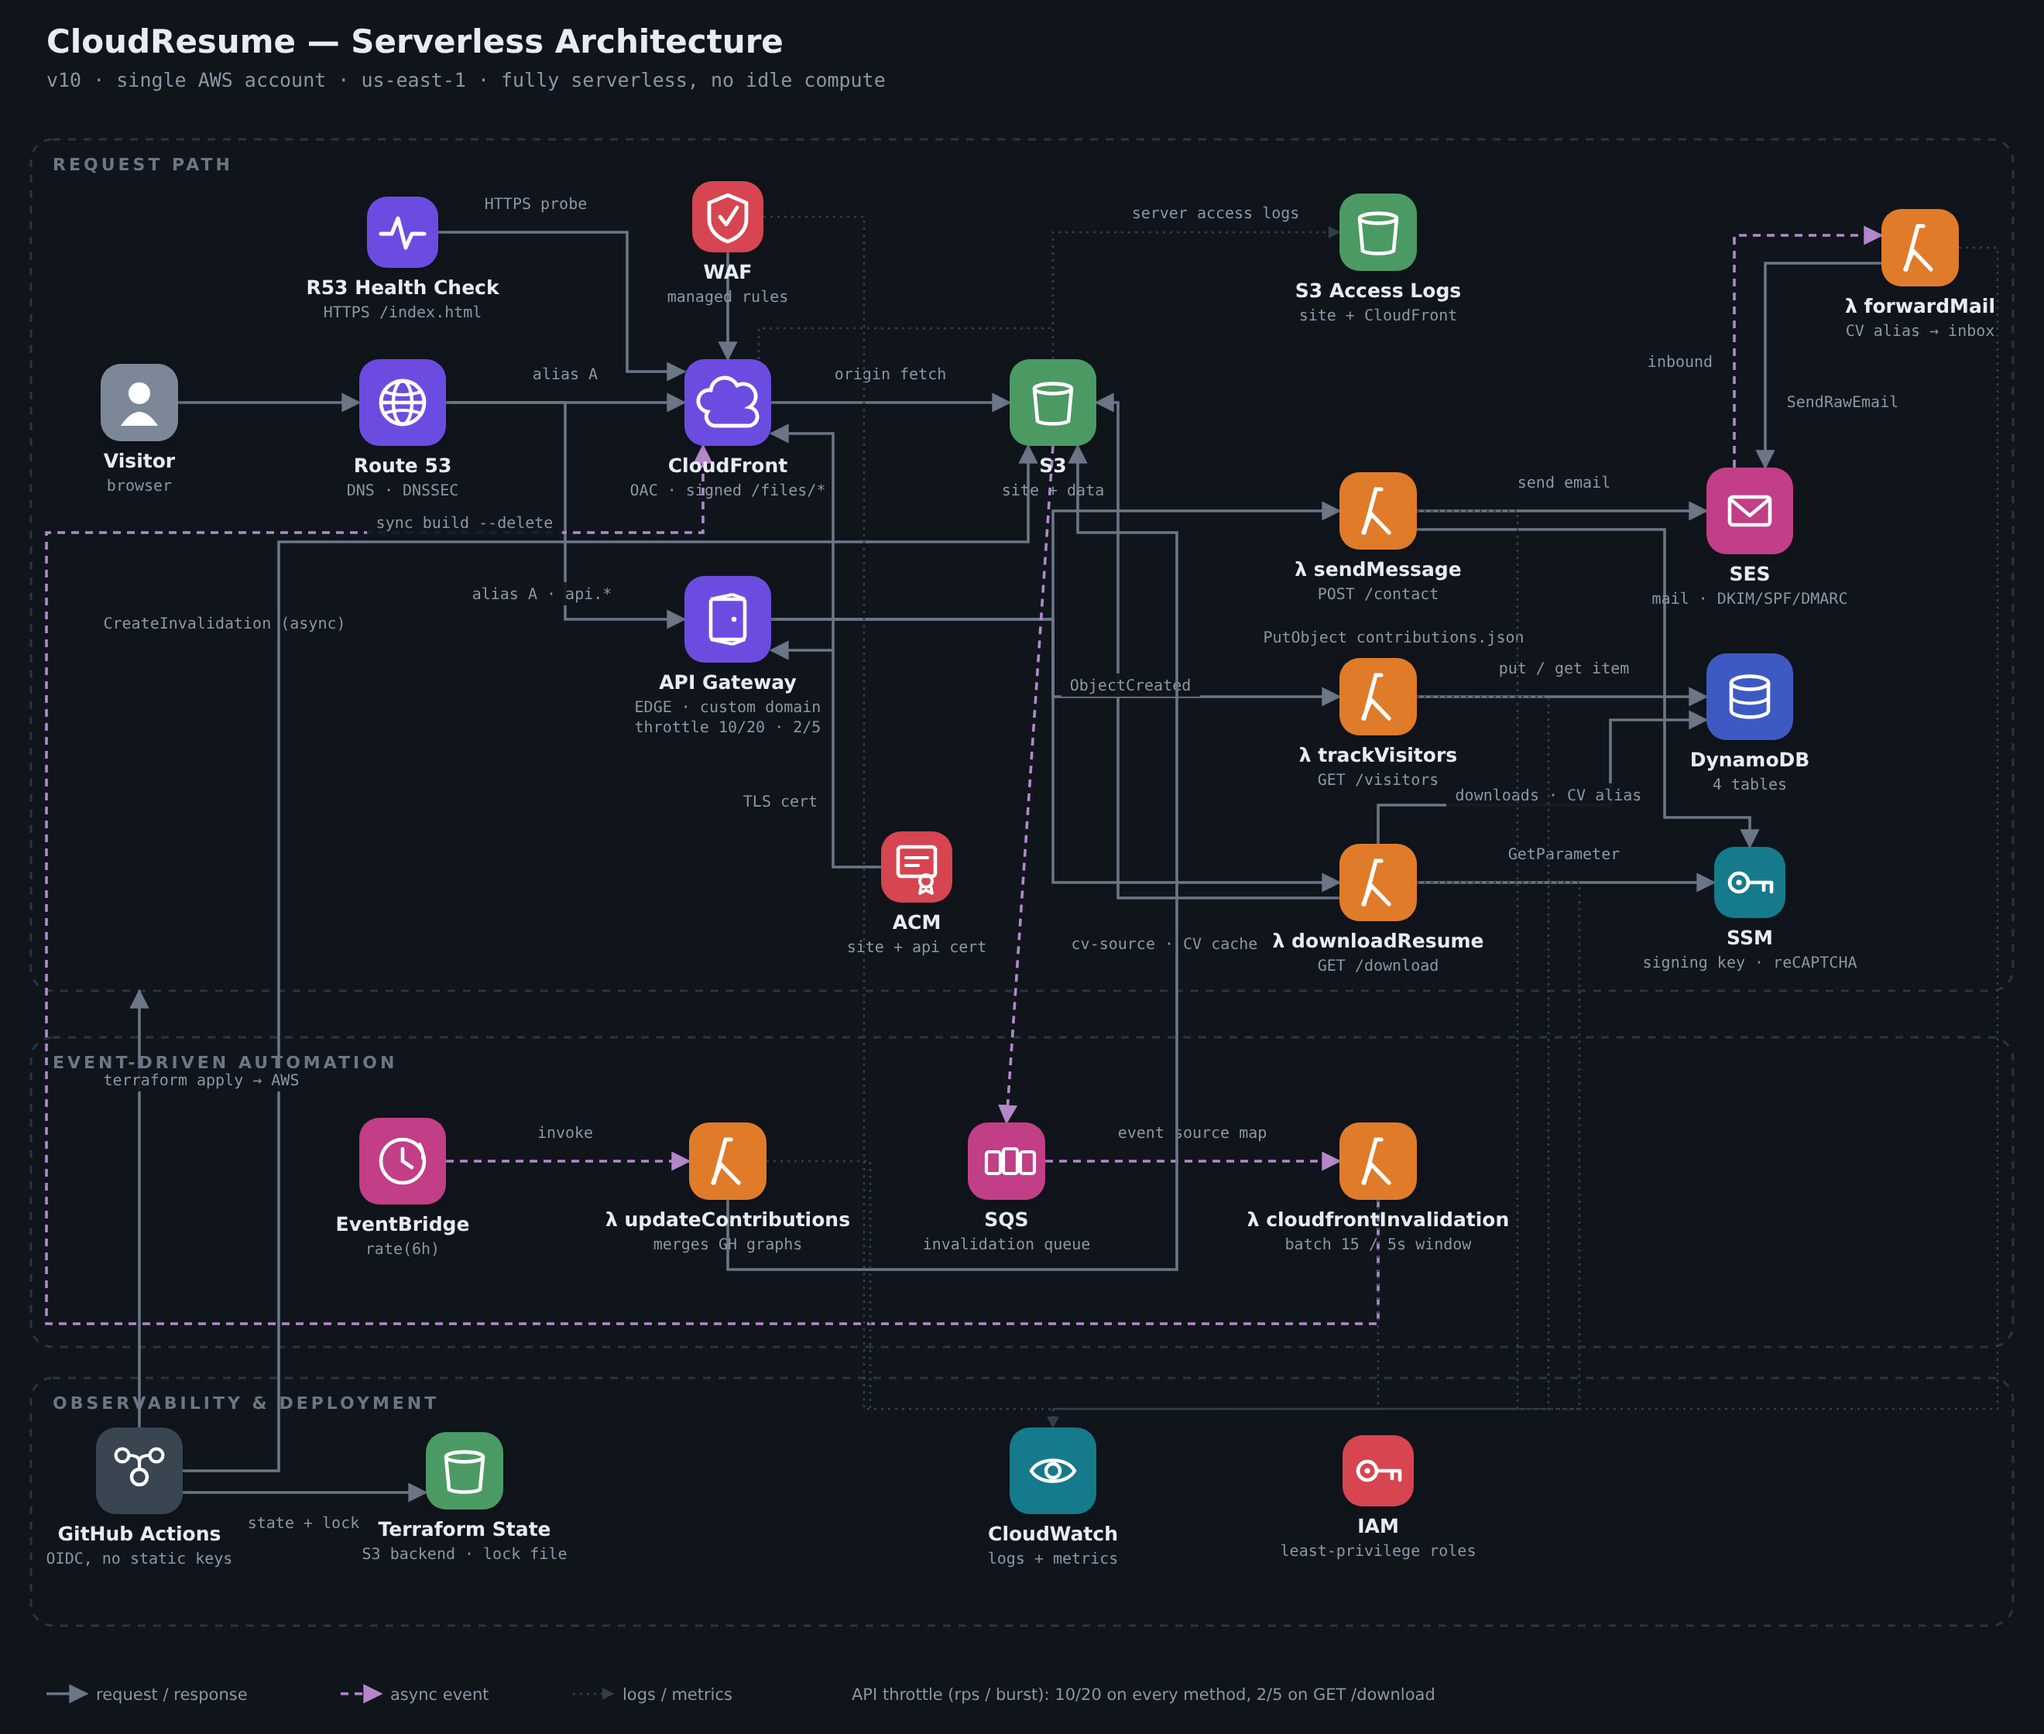
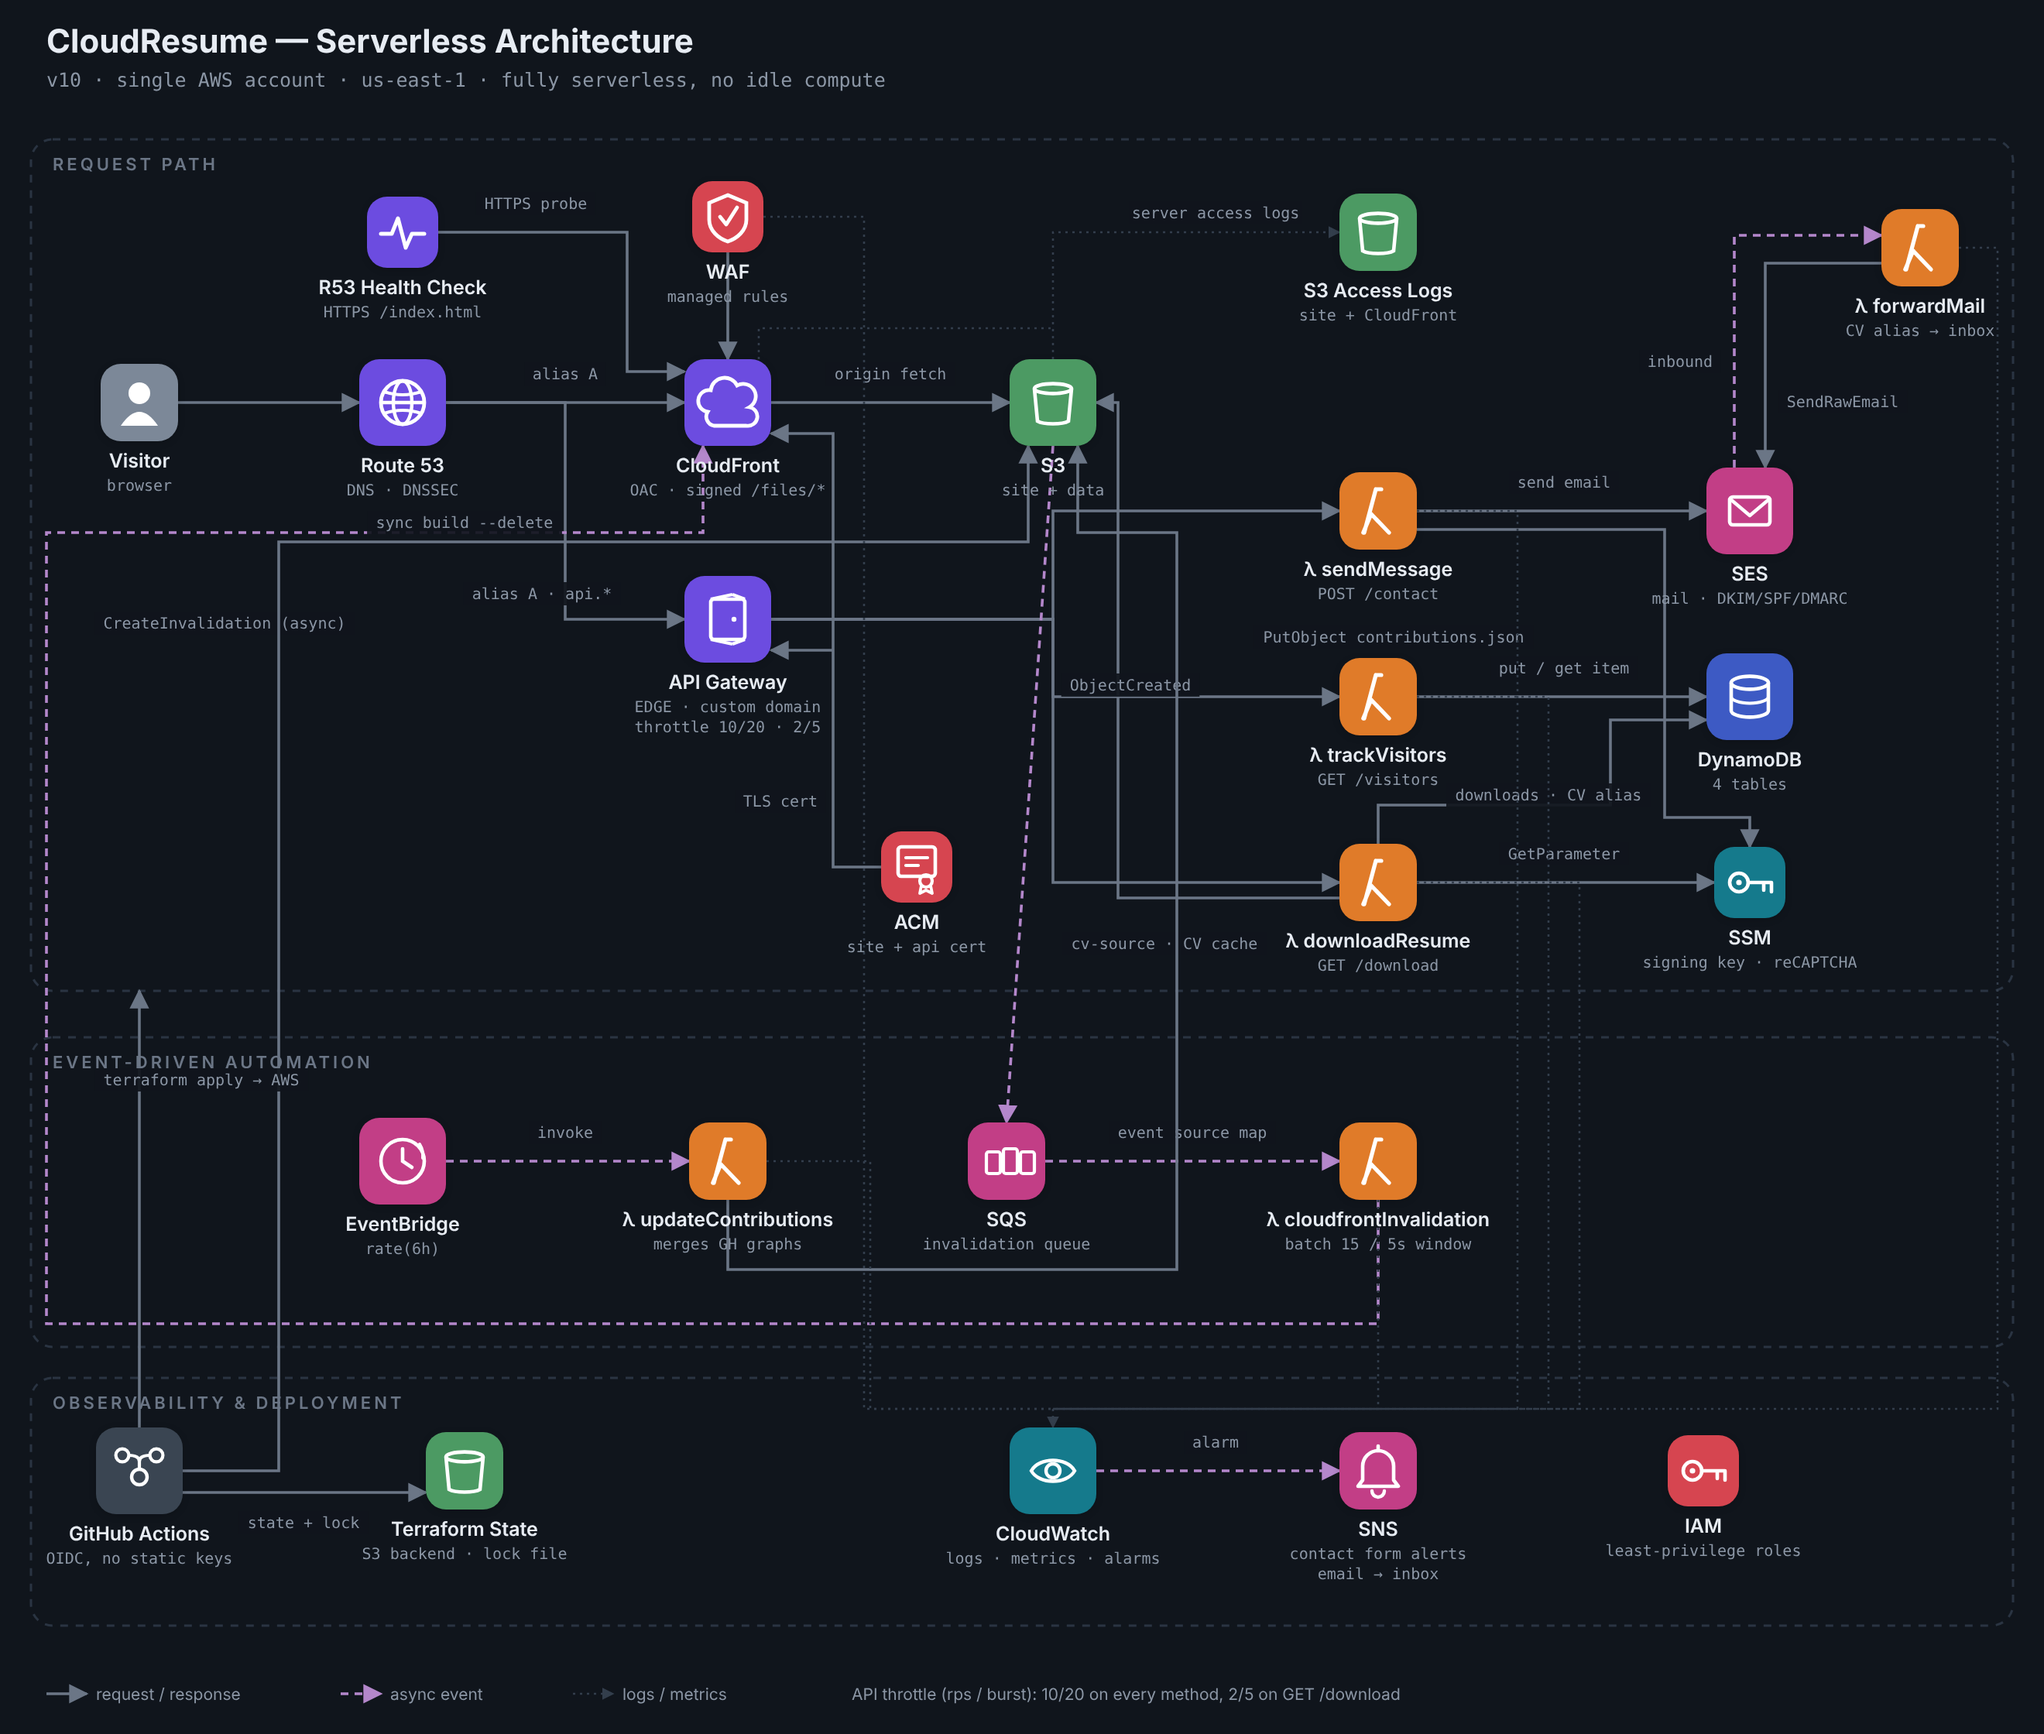
Match page colours to nav stops; alert by email when a contact form submission fails (#154)
* Match Skills and Contact boards to their nav stops; stop overpromising on contact failures

When the nav gained its seventh stop, two pages kept the old colours. The nav
colours stops by position (Skills 5 is green, Contact 6 is amber), but Skills
still passed line 4 (red) and Contact passed line 0 (green). Each page's line
now matches its nav index. PageLines.test.js renders each page next to the
nav and checks the colours agree, so the next added stop can't drift them.

The contact form's failure message said a notification had been sent to the
Administrator. Nothing sends one: sendMessage returns a 500, and the Terraform
has no SNS topic or alarm. The message now just asks the visitor to try again.

The same handler's catch-all returned str(e) to the caller, which for an SES
error can carry addresses or identity details. It now logs the exception and
returns a generic error, with the CORS header so the page sees the status.

* Email an alert when a contact form submission fails

Adds the notification the old failure message promised. The crc-contact-form-alerts
SNS topic emails the inbox the form already delivers to (contact_destination_email),
fed by two alarms:

- crc-contact-form-failures: a metric filter on the sendMessage log group for
  level ERROR. The handler catches its own failures and returns 500/503, so the
  Lambda's Errors metric never counts them; logging is the only signal. That
  covers a refused SES send and an unreachable siteverify.
[…]

diff --git a/website/src/__tests__/PageLines.test.js b/website/src/__tests__/PageLines.test.js
@@ -1,0 +1,61 @@
+import { render, screen } from '@testing-library/react';
+import { MemoryRouter } from 'react-router';
+import Navigation from '../components/navbar';
+import { lineColor, SectionShell } from '../components/ui/primitives';
+import Home from '../pages/Home';
+import Education from '../pages/Education';
+import Experience from '../pages/Experience';
+import Certifications from '../pages/Certifications';
+import Projects from '../pages/Projects';
+import Skills from '../pages/Skills';
+import Contact from '../pages/Contact';
+
+// Each page's board is painted in the line of its nav stop. The two are set in different
+// files (the nav colours by position, the page by its `line` prop), so adding or
+// reordering a stop can leave a page on another stop's colour without anything failing.
+// SectionShell is stubbed so only the `line` each page passes is under test.
+vi.mock('../components/ui/primitives', async (importOriginal) => ({
+    ...(await importOriginal()),
+    SectionShell: vi.fn(() => null),
+}));
+vi.mock('../components/visitor_count', () => ({ default: () => null }));
+vi.mock('../utils/useJsonData', () => ({
+    useJsonData: vi.fn(() => ({ data: {}, loading: false, error: null })),
+    LoadingSkeleton: () => null,
+}));
+vi.mock('../utils/useVisitorId', () => ({ useVisitorId: () => 'test-visitor' }));
+
+const PAGES = [
+    ['Home', Home],
+    ['Education', Education],
+    ['Experience', Experience],
+    ['Certifications', Certifications],
+    ['Projects', Projects],
+    ['Skills', Skills],
+    ['Contact', Contact],
+];
+
+// jsdom reports inline colours as rgb(), so the expected hex goes through the same path.
+function asRendered(color) {
+    const probe = document.createElement('span');
+    probe.style.borderColor = color;
+    return probe.style.borderColor;
+}
+
+describe('page line colours', () => {
+    test.each(PAGES)('the %s board matches its nav stop', (label, Page) => {
+        render(
+            <MemoryRouter>
+                <Navigation />
+            </MemoryRouter>,
+        );
+        const node = screen.getByRole('link', { name: label }).querySelector('span');
+
+        SectionShell.mockClear();
+        render(<Page />);
+        expect(SectionShell).toHaveBeenCalledTimes(1);
+        const { line = 0 } = SectionShell.mock.calls[0][0];
+
+        expect(asRendered(lineColor(line))).toBe(node.style.borderColor);
+    });
+});

diff --git a/website/src/pages/Contact/index.jsx b/website/src/pages/Contact/index.jsx
@@ -72,7 +72,7 @@ function useContactSubmit(captchaRef) {
                 if (resultType === 'error') {
                     setStatus({
                         type: 'error',
-                        text: 'Failed to send message. A notification has been sent to the Administrator. If the issue persists, please try again later.',
+                        text: 'Failed to send message. Please try again in a few minutes.',
                     });
                 } else {
                     setStatus({
@@ -254,7 +254,7 @@ function Contact() {
                 id='contact'
                 kicker='Station Office · Inquiry Counter'
                 title='Contact'
-                line={0}
+                line={6}
                 right={<StatusPill tone='on'>Open</StatusPill>}
             >
                 <div className='mx-auto max-w-screen-md'>

diff --git a/website/src/pages/Skills/index.jsx b/website/src/pages/Skills/index.jsx
@@ -21,7 +21,7 @@ function Skills() {
     return (
         <>
             <title>Skills | Cloud Resume</title>
-            <SectionShell id='skills' kicker='Network Map · Capabilities' title='Skills' line={4}>
+            <SectionShell id='skills' kicker='Network Map · Capabilities' title='Skills' line={5}>
                 <div className='flex flex-col gap-10'>
                     <Reveal className='rounded-lg border border-border bg-background/40 p-4 sm:p-6'>
                         <Suspense fallback={<div className='h-72 animate-pulse rounded bg-secondary-700/40' />}>

diff --git a/infrastructure/tests/test_sendMessage.py b/infrastructure/tests/test_sendMessage.py
@@ -89,3 +89,54 @@ class ReplyToTests(unittest.TestCase):
 
 if __name__ == '__main__':
     unittest.main()
+
+
+class FailureTests(unittest.TestCase):
+    def setUp(self):
+        self.module, _ = load()
+
+        def refuse(**_):
+            raise RuntimeError('Email address is not verified: real.inbox@gmail.example')
+
+        self.module.boto3.client = lambda name, **_: types.SimpleNamespace(send_email=refuse)
+
+    def test_a_send_failure_does_not_echo_the_error_to_the_caller(self):
+        with self.assertLogs(self.module.logger, level='ERROR') as logs:
+            response = submit(self.module)
+        self.assertEqual(response['statusCode'], 500)
+        self.assertNotIn('real.inbox', response['body'])
+        self.assertEqual(json.loads(response['body']), {'error': 'Message could not be sent'})
+        # The detail is kept, in the log.
+        self.assertIn('real.inbox@gmail.example', '\n'.join(logs.output))
+
+    def test_a_send_failure_carries_the_cors_header(self):
+        with self.assertLogs(self.module.logger, level='ERROR'):
+            response = submit(self.module)
+        self.assertEqual(response['headers'], {'Access-Control-Allow-Origin': ORIGIN})
+
+
+class AlertLevelTests(unittest.TestCase):
+    """Anything logged at ERROR raises the contact form alarm, so bot traffic must not be."""
+
+    def setUp(self):
+        self.module, self.sent = load()
+
+    def test_a_failed_recaptcha_is_not_an_error(self):
+        self.module._verify_recaptcha = lambda token: False
+        with self.assertNoLogs(self.module.logger, level='ERROR'):
+            self.assertEqual(submit(self.module)['statusCode'], 403)
+
+    def test_a_foreign_origin_is_not_an_error(self):
+        # The deploy smoke test (api-live.cy.js) posts with a foreign origin every run.
+        event = {'headers': {'origin': 'https://elsewhere.example'}, 'body': '{}'}
+        with self.assertNoLogs(self.module.logger, level='ERROR'):
+            self.assertEqual(self.module.lambda_handler(event, None)['statusCode'], 403)
+
+    def test_an_unreachable_recaptcha_is_an_error(self):
+        def unreachable(token):
+            raise TimeoutError('siteverify timed out')
+
+        self.module._verify_recaptcha = unreachable
+        with self.assertLogs(self.module.logger, level='ERROR'):
+            self.assertEqual(submit(self.module)['statusCode'], 503)
+        self.assertEqual(self.sent, [])

diff --git a/infrastructure/codebase/sendMessage.py b/infrastructure/codebase/sendMessage.py
@@ -172,6 +172,8 @@ def lambda_handler(event, context):
 
         return api_response
 
-    except Exception as e:
-        # Handle any errors that may occur
-        return {'statusCode': 500, 'body': json.dumps({'error': str(e)})}
+    except Exception:
+        # The detail goes to the log, not the caller: an SES or parsing error can name
+        # addresses, identities or internals that a public endpoint has no reason to echo.
+        logger.exception('Contact form submission failed')
+        return _rejected(500, 'Message could not be sent')

diff --git a/docs/contact-form-recaptcha.md b/docs/contact-form-recaptcha.md
@@ -62,6 +62,31 @@ the invisible widget. Register a new one.
 4. Deploy. Do steps 2 and 3 before the deploy that carries this change, because the Lambda refuses
    every submission while the parameter is missing or doesn't match the site key on the page.
 
+## Failure alerts
+
+A submission that fails on our side is emailed to the inbox the form delivers to
+(`CONTACT_DESTINATION_EMAIL`), through the `crc-contact-form-alerts` SNS topic. Two alarms
+publish to it:
+
+| Alarm                            | Fires when                                                                                          |
+| -------------------------------- | --------------------------------------------------------------------------------------------------- |
+| `crc-contact-form-failures`      | `sendMessage` logs at ERROR: SES refused the send, or `siteverify` couldn't be reached (500 or 503) |
+| `crc-contact-form-lambda-errors` | The Lambda itself errored or timed out, which the handler can't catch or log                        |
+
+The first alarm needs a metric filter because the handler catches its own failures and returns a
+response, so the Lambda's `Errors` metric never counts them. Rejections are not failures and
+don't alert: a missing or invalid token, or a foreign `Origin`, is logged at INFO or not at all.
+`test_sendMessage.py` holds both sides of that line, since anything logged at ERROR now sends an
+email.
+
+Each alarm emails once when it goes into alarm, and again only after a quiet five minutes followed
+by another failure. The email names the alarm, and the detail is in the
+`/aws/lambda/sendMessage` log group.
+
+SNS confirms an email subscription before it delivers anything. The first deploy that creates the
+topic sends a confirmation email to that inbox, and alerts only start once its link is followed.
+If the destination address changes, the subscription is replaced and needs confirming again.
+
 ## Local development
 
 Without `VITE_RECAPTCHA_SITE_KEY`, the widget doesn't render and the form sends no token, so any

diff --git a/docs/cv-contact.md b/docs/cv-contact.md
@@ -111,8 +111,8 @@ Forwarding for aliases already issued keeps working.
   addresses. The destination has to be a verified identity either way (see below), so
   forwarding works in or out of the sandbox.
 - **The real inbox comes from a secret and is verified by hand.** The forwarding destination
-  (also the contact form's) is the `CONTACT_DESTINATION_EMAIL` repository secret, passed to
-  Terraform as the sensitive variable `contact_destination_email`. It isn't in the code, it's
+  (also the contact form's, and where its failure alerts go) is the `CONTACT_DESTINATION_EMAIL`
+  repository secret, passed to Terraform as the sensitive variable `contact_destination_email`. It isn't in the code, it's
   masked in logs, and it's redacted from the plans the pipeline publishes. That includes the
   IAM policies naming its SES identity, since that ARN embeds the address; review changes to
   those two policies with a local plan. A missing or malformed secret fails the plan.
@@ -130,6 +130,9 @@ Forwarding for aliases already issued keeps working.
   2. Update the `CONTACT_DESTINATION_EMAIL` secret.
   3. Re-run the pipeline on `main` (or merge anything) so the Lambdas pick it up. Verifying
      first means delivery never breaks. The old identity can be deleted from SES afterwards.
+  4. Follow the link in the SNS confirmation email the new address receives. The apply
+     replaces the contact form's alert subscription, and alerts stay off until it is confirmed
+     (see [`contact-form-recaptcha.md`](contact-form-recaptcha.md#failure-alerts)).
 
   For local Terraform runs, set `TF_VAR_contact_destination_email`. The previous `+alias`
   address remains in the repository's git history and in older workflow logs.

diff --git a/README.md b/README.md
@@ -72,7 +72,7 @@ worth.
 
 The contact form is guarded by invisible reCAPTCHA, verified server-side in the `sendMessage`
 Lambda — see [`docs/contact-form-recaptcha.md`](docs/contact-form-recaptcha.md) for the keys it needs
-and how to set them up.
+and how to set them up, and for the alerts emailed when a submission fails.
 
 ## Technologies Leveraged
 
@@ -93,6 +93,7 @@ and how to set them up.
   - EventBridge
   - Simple Queue Service
   - Simple Email Service
+  - Simple Notification Service
   - CloudWatch
   - CloudTrail
   - CloudFormation
